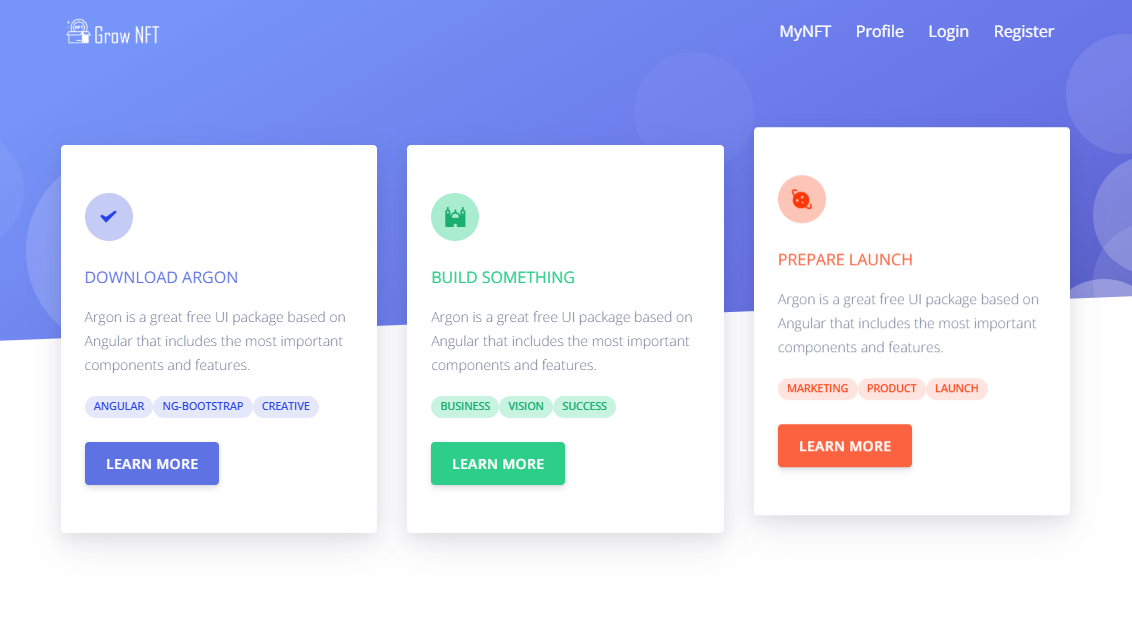
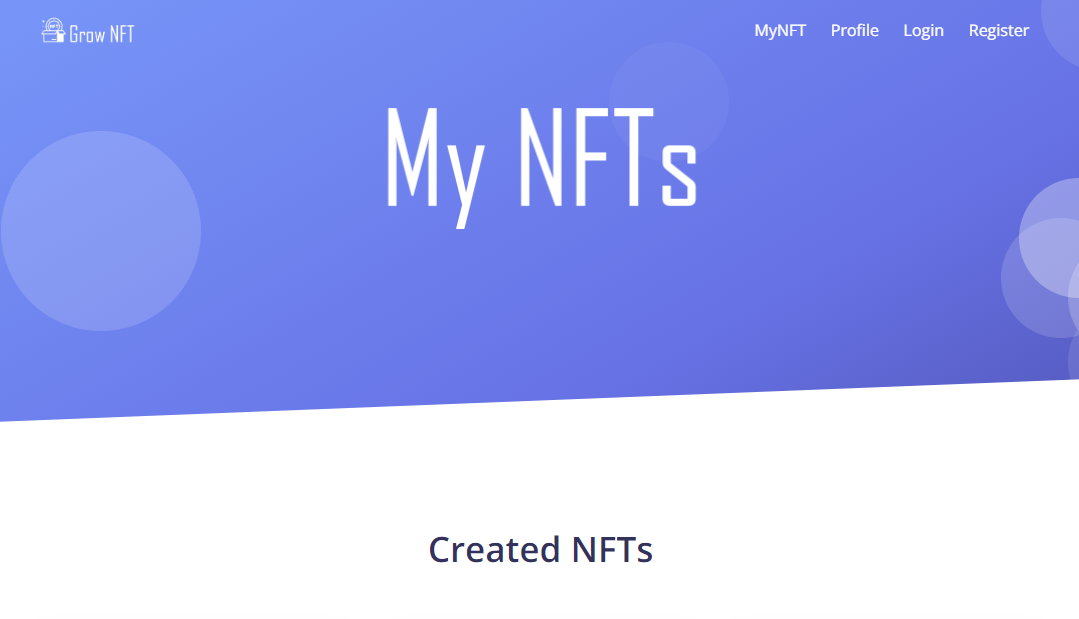
third commit

diff --git a/src/app/landing/landing.component.html b/src/app/landing/landing.component.html
@@ -1,6 +1,6 @@
 <main>
   <div class="position-relative">
-    <section class="section section-lg section-shaped pb-250">
+    <section class="section section-lg section-hero section-shaped">
       <div class="shape shape-style-1 shape-default">
         <span></span>
         <span></span>
@@ -11,6 +11,15 @@
         <span></span>
         <span></span>
         <span></span>
+      </div>
+      <div class="container shape-container d-flex align-items-center py-lg">
+        <div class="col px-0">
+          <div class="row align-items-center justify-content-center">
+            <div class="col-lg-6 text-center">
+              <img src="./assets/img/brand/mynfts.png" style="width: 3000px;" class="img-fluid">
+            </div>
+          </div>
+        </div>
       </div>
       <div class="separator separator-bottom separator-skew">
         <svg x="0" y="0" viewBox="0 0 2560 100" preserveAspectRatio="none" version="1.1" xmlns="http://www.w3.org/2000/svg">
